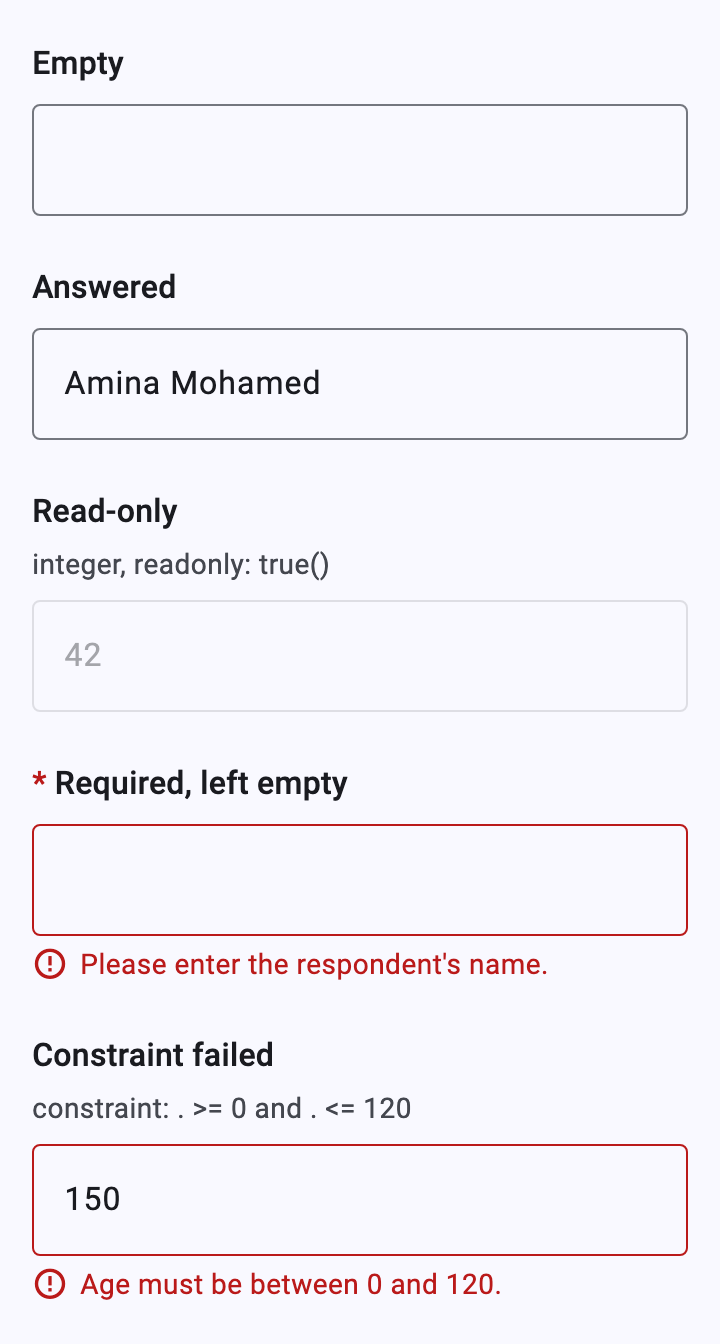
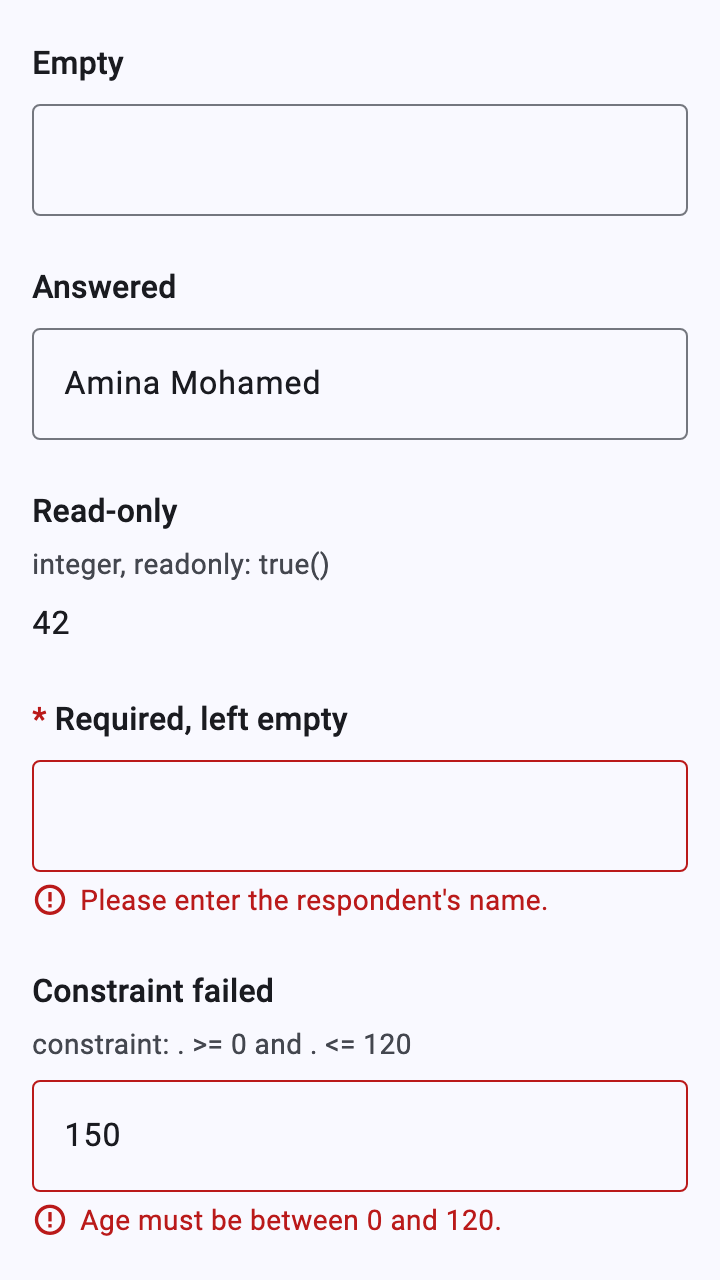
dartrosa_flutter 0.2.1: catalog docs and images for the renderer fixes
repeats: jr:count instances in scroll mode (new repeat_count.png; the
known gap is gone; repeat_no_add_remove.png lost the stray Add Plot
button). notes: read-only text with a value (new read_only_value.png).
text: read-only numbers show text (text_states regenerated). validation:
focus_first_error.gif shows the whole question. CHANGELOG 0.2.1.

diff --git a/packages/dartrosa_flutter/test/screenshots/catalog_test.dart b/packages/dartrosa_flutter/test/screenshots/catalog_test.dart
@@ -517,6 +517,7 @@ final List<_Crops> _crops = [
     'notes',
     crops: {
       'note': ['name', 'welcome'],
+      'read_only_value': ['greeting'],
       'note_markdown': ['markdown'],
       'hint': ['hinted'],
       'guidance_hint': ['guided'],
@@ -539,6 +540,7 @@ final List<_Crops> _crops = [
     'repeats',
     crops: {
       'repeat': ['member'],
+      'repeat_count': ['plots', 'plot'],
       'repeat_no_add_remove': ['visit'],
     },
     dark: {'repeat'},

diff --git a/docs/widgets/repeats.md b/docs/widgets/repeats.md
@@ -46,7 +46,7 @@ question, **Do not add** moves past the repeat.
 
 ## jr:count
 
-<img src="../images/screenshots/widgets/repeat_count_pager.png" width="270" alt="A question of a jr:count repeat instance on a pager screen">
+<img src="../images/screenshots/widgets/repeat_count.png" width="360" alt="The count 2, then the cards Plot 1/2 and Plot 2/2 without add or delete buttons"> <img src="../images/screenshots/widgets/repeat_count_pager.png" width="270" alt="A question of a jr:count repeat instance on a pager screen">
 
 | type | name | label | repeat_count |
 |---|---|---|---|
@@ -59,10 +59,12 @@ question, **Do not add** moves past the repeat.
 <repeat nodeset="/data/plot" jr:count="/data/plots">
 ```
 
-The pager creates as many instances as the count and never asks to add
-more. Known gap: scroll mode doesn't create the counted instances; it
-shows the instances already in the instance and an add button, so use
-the pager for forms with `jr:count` repeats.
+There are as many instances as the count, without add or delete
+buttons, and the pager never asks to add more. The pager creates each
+instance as it moves into it, as JavaRosa does; scroll mode creates them
+all when the form opens and whenever the count goes up
+(`XFormController.createCountedRepeatInstances`). As in JavaRosa,
+instances beyond a count that went down stay.
 
 ## jr:noAddRemove
 

diff --git a/packages/dartrosa_flutter/CHANGELOG.md b/packages/dartrosa_flutter/CHANGELOG.md
@@ -1,3 +1,9 @@
+## 0.2.1
+
+- Read-only text and number questions with a value (a calculation, a default) show the value as text in place of the field, as ODK Collect does (new `ReadOnlyAnswer`); a read-only text was treated as a note and showed only its label. Notes (read-only text without a value) stay label only; read-only numbers without a value show `—`; secrets stay masked.
+- Scroll mode creates the instances of `jr:count` repeats (on start and whenever a count goes up), as the pager does when it moves into them; it showed none and an add button. `jr:count` and `jr:noAddRemove` repeats never show the add button. New `XFormController.createCountedRepeatInstances()`.
+- Blocked Next and failed Finalize show the whole question in error (label, hint, field and error) before focusing it; the focused text field used to stop the scrolling with the label above the screen.
+
 ## 0.2.0
 
 - Adaptive layout by window size class (new `XFormWindowSize`): full width on phones; from 600dp a centered column, now capped by default at `XFormTheme.defaultMaxContentWidth` (720dp) when `maxContentWidth` is `null` (`double.infinity` fills the width).

diff --git a/docs/widgets/notes-labels-and-triggers.md b/docs/widgets/notes-labels-and-triggers.md
@@ -27,8 +27,24 @@ Form: [`forms/notes.xml`](../../packages/dartrosa_flutter/test/screenshots/forms
 </input>
 ```
 
-A note is a read-only text input: only its label and hints show.
-`<output>` values update as the answers they read change.
+A note is a read-only text input without a value: only its label and
+hints show. `<output>` values update as the answers they read change.
+
+<img src="../images/screenshots/widgets/read_only_value.png" width="360" alt="A read-only Greeting question showing Karibu, Amina!">
+
+| type | name | label | read_only | calculation |
+|---|---|---|---|---|
+| text | greeting | Greeting | yes | concat('Karibu, ', ${name}, '!') |
+
+```xml
+<bind nodeset="/data/greeting" type="string" readonly="true()"
+      calculate="concat('Karibu, ', /data/name, '!')"/>
+```
+
+A read-only text *with* a value (a calculation, a default) shows the
+value under its label, as Collect does: plain text in the theme's
+`onSurface` color, read as read-only by screen readers and selectable
+with the mouse on desktops and in browsers.
 
 ## Markdown in labels
 

diff --git a/docs/widgets/README.md b/docs/widgets/README.md
@@ -73,7 +73,7 @@ states apply to every control:
 |---|---|---|
 | Empty | the input without a value (`—` for captured values) | no answer yet |
 | Answered | the value | the instance, an answer, a calculation |
-| Read-only | the value, inputs disabled | `readonly` (a read-only *text* question is a note: label only) |
+| Read-only | the value, inputs disabled (text and numbers: the value as text) | `readonly` (a read-only *text* question without a value is a note: label only) |
 | Required, missing | red `*` before the label; after Next or Finalize, the error | `required`, message from `jr:requiredMsg` |
 | Constraint failed | the typed value stays, the error appears as you type | `constraint`, message from `jr:constraintMsg` |
 | Not relevant | not shown | `relevant` |

diff --git a/docs/widgets/text-and-numbers.md b/docs/widgets/text-and-numbers.md
@@ -119,9 +119,10 @@ the answer is `1250000`.
       jr:constraintMsg="Age must be between 0 and 120."/>
 ```
 
-- **Read-only** numbers show a disabled field. A read-only *text*
-  question is a note: only its label shows, so put a calculated value in
-  the label (`${name}`) as in [Notes](notes-labels-and-triggers.md#notes).
+- **Read-only** text and numbers show the answer as text in place of
+  the field (`ReadOnlyAnswer`), as Collect does: a read-only number
+  without an answer shows `—`, a read-only text without one is a
+  [note](notes-labels-and-triggers.md#notes) (label only).
 - **Required** questions show a red `*`; the error appears when Next or
   Finalize is tapped while it is empty.
 - **Constraint**: the typed `150` stays in the field, outlined in red,

diff --git a/docs/widgets/validation.md b/docs/widgets/validation.md
@@ -74,8 +74,8 @@ Integer fields filter out anything but digits, so they don't get there.
 
 Next re-checks every relevant, editable question of the screen. If any
 fails, the pager stays, every failing question shows its error, and the
-**first** one is scrolled into view and focused (a text field gets the
-cursor). Screen readers announce its message.
+**first** one is scrolled into view, its label, hint, field and error
+all on screen, and focused (a text field gets the cursor). Screen readers announce its message.
 
 ## Finalize
 

diff --git a/docs/widgets/special-inputs.md b/docs/widgets/special-inputs.md
@@ -140,7 +140,8 @@ new answers by name.
 
 **Print** sends the answer to `XFormDelegates.print`. Collect parses it
 as HTML with `<qrcode>` and `<barcode>` elements; the app decides how to
-render and print it. Without `canPrint` the question is a note.
+render and print it. Without `canPrint` the answer shows as read-only
+text.
 
 ## Without delegates
 
